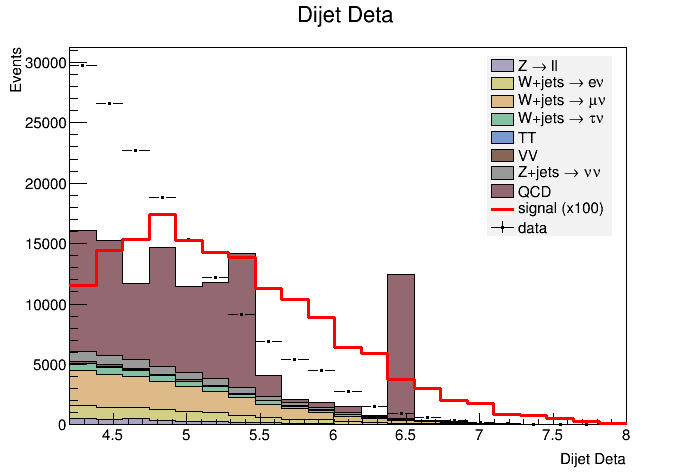
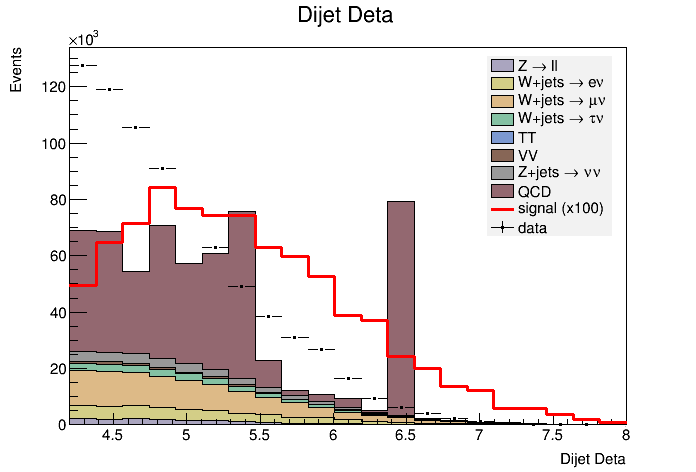
removed min/max_x_cuts from var string and set to x_nocuts

diff --git a/src/variable.cpp b/src/variable.cpp
@@ -45,7 +45,7 @@ std::string Variable::build_var_string(const char* label, bool with_cut)
   var_string.append(label);
   var_string += "(";
 
-  if (with_cut) {
+  /*if (with_cut) {
     var_string += bins_cut;
     var_string += ",";
     var_string.append(x_min_cut);
@@ -53,14 +53,14 @@ std::string Variable::build_var_string(const char* label, bool with_cut)
     var_string.append(x_max_cut);
     var_string += ")";
   }
-  else {
+  else {*/
     var_string.append(bins_nocut);
     var_string += ",";
     var_string.append(x_min_nocut);
     var_string += ",";
     var_string.append(x_max_nocut);
     var_string += ")";
-  } 
+  //} 
   return var_string;
 }
 
@@ -92,7 +92,7 @@ std::string Variable::build_selection_string(bool with_cut, bool is_signal)
   std::string sel_string("");
 
   if (with_cut) {
-    sel_string += "(";/*
+    /*sel_string += "(abs(";
     sel_string.append(name);
     sel_string += ">";
     sel_string.append(x_min_cut);
@@ -101,15 +101,15 @@ std::string Variable::build_selection_string(bool with_cut, bool is_signal)
     sel_string += "<";
     sel_string.append(x_max_cut);*/
 
-    sel_string += "(-";//)||
+    sel_string += "((";//)||
     sel_string.append(name);
-    sel_string += ">";
+    sel_string += ">abs(";
     sel_string.append(x_max_cut);
-    sel_string += ")&&(-";
+    sel_string += "))&&(";
     sel_string.append(name);
-    sel_string += "<";
+    sel_string += "<abs(";
     sel_string.append(x_min_cut);
-    sel_string.append(")");
+    sel_string.append("))");
 
     
     /*sel_string +="&&(";
@@ -151,11 +151,6 @@ std::string Variable::build_selection_string(bool with_cut, bool is_signal)
 
       } 
   
-  else{
-         sel_string += "(abs(";
-	 sel_string.append(name);
-         sel_string += "))*"; 
-      }
     sel_string += "total_weight_lepveto";
 
     if(is_signal) {
